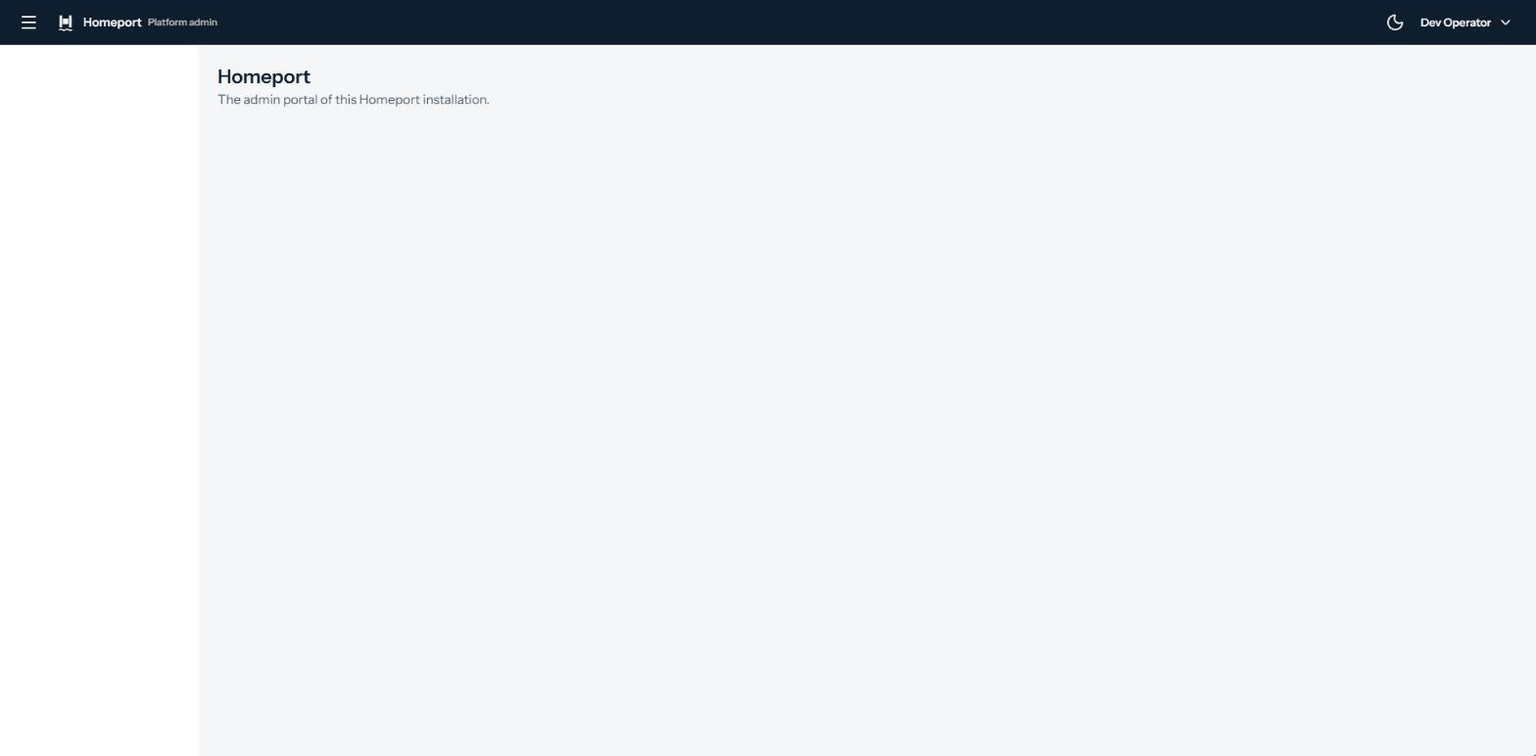
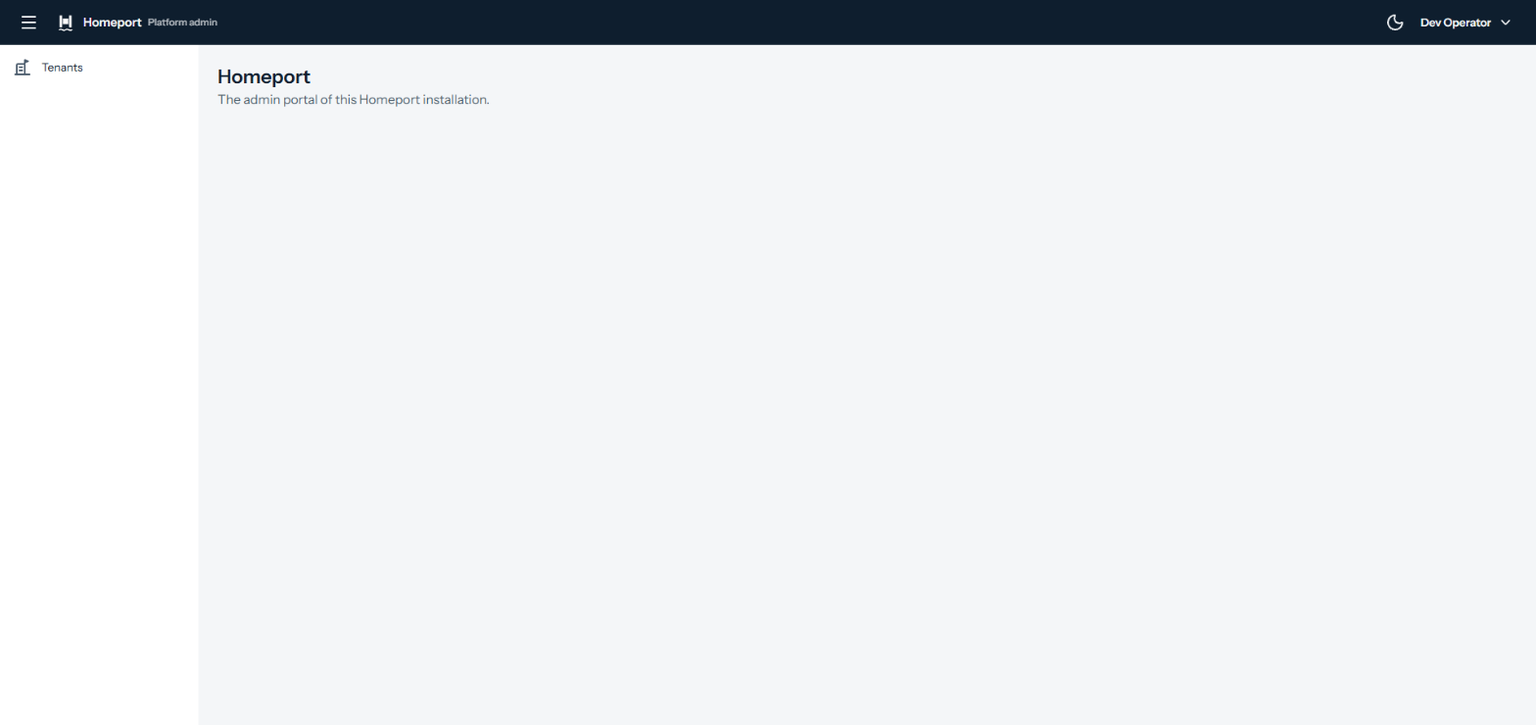
docs: document tenants in the admin API and portal (#194)
- Document the tenant endpoints and the audit table
- Add the Tenants section with screenshots
- Allow audit table privileges as vendor-specific SQL
- Update architecture, data model and problem pages
- Add the changelog entry

Changed region(s): [[0.0, 0.0, 1.0, 0.0622], [0.125, 0.0932, 0.3125, 0.1554], [0.0312, 0.0932, 0.0625, 0.1243]]

diff --git a/docs/architecture/architecture.md b/docs/architecture/architecture.md
@@ -23,20 +23,20 @@ binding rules — the dependency direction, who may reference what — live in t
 | `Homeport.Platform.Gateway.Domain` | The rules for a quantity a module reports: one pair of the route's own meter and a positive integer; a plan's rate limit and what a request's draw from its bucket tells the caller: allowed or when to retry, the quota, window, remaining requests and seconds until full; the consolidated API documents: per module only the routes the gateway serves, each from the document of the instance that wins it, under public paths, with prefixed colliding component names and a bearer scheme | `Homeport.Shared.Contracts` |
 | `Homeport.Platform.Gateway.Application` | Decides whether a tenant's request passes its rate limit, on the token buckets it declares, and lets it pass while they cannot be reached | `Homeport.Platform.Gateway.Domain` |
 | `Homeport.Platform.Gateway.Infrastructure` | Loads and checks the signing key, builds the JWKS and issues service tokens, which an HTTP client attaches to its calls to a platform service, and module tokens, which are also the caller tokens of a forwarded platform request, and the operator's caller tokens of scope `admin` for an admin request; reads the route table from the registry; looks clients up at the control plane and keeps each answer for a configurable time; publishes usage events through Wolverine to RabbitMQ, retries a failed send and counts one it drops or a reported quantity it rejects; reads the OpenAPI documents of module instances; keeps every tenant's token bucket in Valkey and draws from it with a script that runs inside Valkey, counts a request that passes while Valkey cannot be reached and warns about it at most once a minute | `Homeport.Platform.Gateway.Application`, `Homeport.Shared.Authentication`, `Homeport.Shared.Internal` |
-| `Homeport.Platform.Gateway.Api` | The one entry point: polls the registry for the routes and forwards `/modules/{id}/{path}` with YARP on them, and `/platform/v1/usage` to metering on a configured route with a caller token and without metering it, to clients with a valid token of the operator's identity provider that the control plane knows and that grants the route's scope, serves the admin API under `/platform/v1/admin/...` on a port of its own only, for operator tokens with the configured admin claim, forwards it with a caller token of scope `admin` and neither throttles nor meters it, replaces the client's token with a module token, strips `X-Homeport-*` headers, applies forwarded headers only from trusted proxies, propagates `traceparent`, rejects a request over its tenant's rate limit with `429` and `Retry-After` before it is forwarded or metered and sets the RateLimit headers on every module response, tags a module request's span with tenant, client, module and meter and counts it in `homeport.gateway.requests`, publishes a usage event for every request it forwards with the quantity the module reported in `X-Homeport-Usage`, which it removes from the response, or the route's, holds every error response to Problem Details and serves the JWKS at `/.well-known/jwks.json`; when `Gateway:Docs:Enabled`, rebuilds the consolidated API docs whenever the routes change, the platform's from the documents of the platform services, read with a service token every 30 seconds, and serves them with Scalar at `/platform/docs` | `Homeport.Platform.Gateway.Infrastructure`, `Homeport.Shared.Client`, `Homeport.Shared.ServiceDefaults` |
+| `Homeport.Platform.Gateway.Api` | The one entry point: polls the registry for the routes and forwards `/modules/{id}/{path}` with YARP on them, and `/platform/v1/usage` to metering on a configured route with a caller token and without metering it, to clients with a valid token of the operator's identity provider that the control plane knows and that grants the route's scope, serves the admin API under `/platform/v1/admin/...` on a port of its own only, for operator tokens with the configured admin claim, forwards it — so far the tenants, to the control plane — with a caller token of scope `admin` and neither throttles nor meters it, replaces the client's token with a module token, strips `X-Homeport-*` headers, applies forwarded headers only from trusted proxies, propagates `traceparent`, rejects a request over its tenant's rate limit with `429` and `Retry-After` before it is forwarded or metered and sets the RateLimit headers on every module response, tags a module request's span with tenant, client, module and meter and counts it in `homeport.gateway.requests`, publishes a usage event for every request it forwards with the quantity the module reported in `X-Homeport-Usage`, which it removes from the response, or the route's, holds every error response to Problem Details and serves the JWKS at `/.well-known/jwks.json`; when `Gateway:Docs:Enabled`, rebuilds the consolidated API docs whenever the routes change, the platform's from the documents of the platform services, read with a service token every 30 seconds, and serves them with Scalar at `/platform/docs` | `Homeport.Platform.Gateway.Infrastructure`, `Homeport.Shared.Client`, `Homeport.Shared.ServiceDefaults` |
 | `Homeport.Platform.Registry.Domain` | The rules of registration: the manifest against the module contract, the supported contract versions, SemVer precedence, merging the routes of the live instances and comparing registration keys | nothing |
 | `Homeport.Platform.Registry.Application` | Registering an instance, renewing it and building the routes, on a store of instances and a source of keys it declares | `Homeport.Platform.Registry.Domain` |
 | `Homeport.Platform.Registry.Infrastructure` | Keeps the instances in Valkey with a time to live and reads the registration keys from configuration | `Homeport.Platform.Registry.Application` |
 | `Homeport.Platform.Registry.Api` | Serves registration and heartbeat, authenticated by registration key, and the route table, authenticated by a gateway service token | `Homeport.Platform.Registry.Infrastructure`, `Homeport.Shared.Authentication`, `Homeport.Shared.Client`, `Homeport.Shared.Internal`, `Homeport.Shared.ServiceDefaults` |
-| `Homeport.Platform.ControlPlane.Domain` | The tenant, the plan and the client with the plan it is held to, and the longest name and client id each allows | `Homeport.Shared.Contracts` |
-| `Homeport.Platform.ControlPlane.Application` | Looking a client up with its plan, on a lookup it declares | `Homeport.Platform.ControlPlane.Domain` |
-| `Homeport.Platform.ControlPlane.Infrastructure` | Keeps tenants, plans and clients in the schema `control_plane` with EF Core, mapped by entity configurations, looks a client up with its plan, holds the migrations, and brings the seeded tenant, plan and client in line with the configuration | `Homeport.Platform.ControlPlane.Application` |
-| `Homeport.Platform.ControlPlane.Api` | Serves `GET /clients/{clientId}` authenticated by a gateway service token, and as `migrate` applies its migrations and seeds one tenant, plan and client | `Homeport.Platform.ControlPlane.Infrastructure`, `Homeport.Shared.Authentication`, `Homeport.Shared.Client`, `Homeport.Shared.Internal`, `Homeport.Shared.ServiceDefaults` |
+| `Homeport.Platform.ControlPlane.Domain` | The tenant with the rules of its name — required, at most 200 characters, unique among tenants compared case-sensitively — the plan, the client with the plan it is held to, the longest name and client id each allows, and the audit entry of an operator's change | `Homeport.Shared.Contracts` |
+| `Homeport.Platform.ControlPlane.Application` | Looking a client up with its plan, and listing, creating and renaming tenants on behalf of an operator, each change with its audit entry, on a lookup and a store it declares | `Homeport.Platform.ControlPlane.Domain` |
+| `Homeport.Platform.ControlPlane.Infrastructure` | Keeps tenants, plans, clients and audit entries in the schema `control_plane` with EF Core, mapped by entity configurations, looks a client up with its plan, stores a tenant's change and its audit entry in one transaction and catches a name taken meanwhile by the unique index, holds the migrations, takes `UPDATE` and `DELETE` on the audit table back from the app role, and brings the seeded tenant, plan and client in line with the configuration | `Homeport.Platform.ControlPlane.Application` |
+| `Homeport.Platform.ControlPlane.Api` | Serves `GET /clients/{clientId}` authenticated by a gateway service token, and `GET`, `POST` and `PUT` under `/v1/admin/tenants` for the operator's caller token of scope `admin` without a tenant, answering a broken name rule with a validation problem at `name`, and as `migrate` applies its migrations and seeds one tenant, plan and client | `Homeport.Platform.ControlPlane.Infrastructure`, `Homeport.Shared.Authentication`, `Homeport.Shared.Client`, `Homeport.Shared.Internal`, `Homeport.Shared.ServiceDefaults` |
 | `Homeport.Platform.Metering.Domain` | The usage event, its hourly and daily aggregates, the rule that buckets usage by the UTC hour and day, and the query of an export with its rules | `Homeport.Shared.Contracts` |
 | `Homeport.Platform.Metering.Application` | Recording an event once and adding it to its aggregates, and reading a tenant's aggregates for an export, on a store and a reader it declares | `Homeport.Platform.Metering.Domain` |
 | `Homeport.Platform.Metering.Infrastructure` | Keeps the events and aggregates in the schema `metering` with EF Core, filtered to one tenant by query filters and row-level security, records an event in one transaction that a duplicate leaves unchanged, reads the aggregates of one tenant, and holds the migrations | `Homeport.Platform.Metering.Application` |
 | `Homeport.Platform.Metering.Api` | Consumes `UsageRecorded` from RabbitMQ through Wolverine, acknowledging it only once recorded, counts consumed events in `homeport.metering.events`, tags the consumer's span with the event's tenant, client, module and meter, serves a tenant's usage at `GET /v1/usage` as JSON or CSV to caller tokens of the gateway that grant `usage.read`, its OpenAPI document to the gateway's tokens, and as `migrate` applies its migrations | `Homeport.Platform.Metering.Infrastructure`, `Homeport.Shared.Authentication`, `Homeport.Shared.Client`, `Homeport.Shared.Internal`, `Homeport.Shared.ServiceDefaults` |
-| `Homeport.Platform.Portal` | The admin portal, Blazor Server on MudBlazor with the design kit's theme, fonts and logos linked from `design/`: signs the operator in with OIDC, authorization code and PKCE, requires the configured claim on every page, refuses a sign-in over plain HTTP, applies forwarded headers only from trusted proxies, shows the shell with the operator's name and sign-out, and answers a browser with sign-in, access denied, not found and error pages that show the trace id | `Homeport.Shared.ServiceDefaults` |
+| `Homeport.Platform.Portal` | The admin portal, Blazor Server on MudBlazor with the design kit's theme, fonts and logos linked from `design/`: signs the operator in with OIDC, authorization code and PKCE, requires the configured claim on every page, refuses a sign-in over plain HTTP, applies forwarded headers only from trusted proxies, shows the shell with the operator's name and sign-out, lists, creates and renames tenants through the gateway's admin API with the operator's access token, which each circuit renews with the refresh token before it expires, shows the admin API's Problem Details with the errors at their form fields, and answers a browser with sign-in, access denied, not found and error pages that show the trace id | `Homeport.Shared.Client`, `Homeport.Shared.ServiceDefaults` |
 | `Homeport.Modules.Echo.Domain` | The rule how much a batch counts: one per item, and at least one item | `Homeport.Shared.Contracts` |
 | `Homeport.Modules.Echo.Application` | Returning a batch with the quantity it counts as | `Homeport.Modules.Echo.Domain` |
 | `Homeport.Modules.Echo.Infrastructure` | Empty: Echo reaches nothing outside its process | `Homeport.Modules.Echo.Application` |
@@ -46,9 +46,10 @@ binding rules — the dependency direction, who may reference what — live in t
 | `Homeport.Modules.Echo.Api.Tests.Integration` | Runs Echo in memory behind a stand-in gateway's JWKS and asserts its manifest, health, echo, batch, request and caller endpoints with and without a module token and scope, and its OpenAPI document, including the descriptions of its `Homeport.Shared.Client` types | `Homeport.Modules.Echo.Api` |
 | `Homeport.Modules.Echo.Domain.Tests.Unit` | Asserts how much a batch counts and that an empty one is rejected | `Homeport.Modules.Echo.Domain` |
 | `Homeport.Modules.Echo.Application.Tests.Unit` | Asserts that a batch comes back in its order with its quantity, and that an empty one fails | `Homeport.Modules.Echo.Application` |
-| `Homeport.Platform.ControlPlane.Infrastructure.Tests.Integration` | Asserts that the schema's ER diagram names every table and column of the model | `Homeport.Platform.ControlPlane.Infrastructure` |
-| `Homeport.Platform.ControlPlane.Api.Tests.Integration` | Runs `migrate` and the control plane against a throwaway PostgreSQL prepared by the init script and asserts the client lookup with its token and error responses, that `migrate` seeds exactly once and fails on an invalid seed, and that the app role has no DDL rights; needs Docker | `Homeport.Platform.ControlPlane.Api` |
-| `Homeport.Platform.Gateway.Api.Tests.Integration` | Runs the gateway in memory against a stand-in module, registry, identity provider, control plane and metering and asserts which tokens, clients and scopes it accepts, the module token it forwards, what it forwards on which routes, how it polls the registry, the error responses it answers with, the JWKS it serves, the span attributes and request counts of a module request, that its metrics carry only bounded labels, the usage events it publishes with the quantity a module reports or the route's, the reports it rejects and removes, the `429`, `Retry-After` and RateLimit headers it answers with, that it neither meters a rejected request nor throttles one while Valkey is unreachable, that its errors read as `ProblemResponse` without loss, the consolidated API docs it serves, keeps and switches off, the platform's from metering's document read with a service token, that it forwards the usage export to metering with a caller token, throttles it and does not meter it, that it serves the admin API on the admin port only, answers it on the public port like an unknown path, refuses a token without the admin claim and forwards the operator's caller token, and that it does not start without a signing key or an identity provider | `Homeport.Platform.Gateway.Api` |
+| `Homeport.Platform.ControlPlane.Infrastructure.Tests.Integration` | Asserts that the schema's ER diagram names every table and column of the model, and, against a throwaway PostgreSQL migrated as the owner role, that a tenant is stored together with its audit entry, that neither is stored when another tenant took the name meanwhile, and that two names differing only in case are both stored; needs Docker | `Homeport.Platform.ControlPlane.Infrastructure` |
+| `Homeport.Platform.ControlPlane.Api.Tests.Integration` | Runs `migrate` and the control plane against a throwaway PostgreSQL prepared by the init script and asserts the client lookup with its token and error responses, the tenants of the admin API with their status codes, problems and audit entries, that only the operator's caller token reaches them, that `migrate` seeds exactly once and fails on an invalid seed, that the app role has no DDL rights, and that it may add and read audit entries but neither change nor delete them; needs Docker | `Homeport.Platform.ControlPlane.Api` |
+| `Homeport.Platform.ControlPlane.Domain.Tests.Unit` | Asserts the rules of a tenant's name: required, at most 200 characters, unique among tenants but case-sensitive, without surrounding whitespace, on creating and on renaming | `Homeport.Platform.ControlPlane.Domain` |
+| `Homeport.Platform.Gateway.Api.Tests.Integration` | Runs the gateway in memory against a stand-in module, registry, identity provider, control plane and metering and asserts which tokens, clients and scopes it accepts, the module token it forwards, what it forwards on which routes, how it polls the registry, the error responses it answers with, the JWKS it serves, the span attributes and request counts of a module request, that its metrics carry only bounded labels, the usage events it publishes with the quantity a module reports or the route's, the reports it rejects and removes, the `429`, `Retry-After` and RateLimit headers it answers with, that it neither meters a rejected request nor throttles one while Valkey is unreachable, that its errors read as `ProblemResponse` without loss, the consolidated API docs it serves, keeps and switches off, the platform's from metering's document read with a service token, that it forwards the usage export to metering with a caller token, throttles it and does not meter it, that it serves the admin API on the admin port only, answers it on the public port like an unknown path, refuses a token without the admin claim, forwards the operator's caller token and the tenant endpoints to the control plane, and that it does not start without a signing key or an identity provider | `Homeport.Platform.Gateway.Api` |
 | `Homeport.Platform.Gateway.Application.Tests.Unit` | Asserts that a request is decided on the bucket it drew from, and passes undecided while the buckets are unavailable | `Homeport.Platform.Gateway.Application` |
 | `Homeport.Platform.Gateway.Domain.Tests.Unit` | Asserts which reported quantities are accepted and why one is rejected, the limits a plan's rate limit takes and what a draw from its bucket tells the caller, and what a consolidated API document keeps, rewrites and leaves out | `Homeport.Platform.Gateway.Domain` |
 | `Homeport.Platform.Gateway.Infrastructure.Tests.Unit` | Asserts the checks on the signing and module token configuration, the service tokens and their renewal, the module tokens and the operator's caller tokens, the cached client lookup at the control plane, the retry delays of usage events, and that an outage of Valkey is warned about at most once per interval | `Homeport.Platform.Gateway.Infrastructure` |
@@ -58,6 +59,7 @@ binding rules — the dependency direction, who may reference what — live in t
 | `Homeport.Platform.Metering.Infrastructure.Tests.Integration` | Asserts recording and duplicates in a throwaway PostgreSQL prepared by the init script, which buckets an export reads, the cross-tenant leakage tests through EF Core and raw SQL as the app role and of the export, and that the schema's ER diagram names every table and column of the model; needs Docker | `Homeport.Platform.Metering.Infrastructure` |
 | `Homeport.Platform.Metering.Api.Tests.Integration` | Runs `migrate` and metering against a throwaway PostgreSQL and RabbitMQ and asserts that a published event is aggregated, that one delivered twice counts once, what `homeport.metering.events` counts, the attributes of the consumer's span, that its metrics carry only bounded labels, and the usage export as JSON and CSV with the tokens it accepts and refuses and the cross-tenant leakage test of two tenants, and its OpenAPI document of the export, served to a token only; needs Docker | `Homeport.Platform.Metering.Api` |
 | `Homeport.Platform.Portal.Tests.Integration` | Runs the portal in memory against an identity provider it never calls and asserts that it serves the design kit's files, sends an anonymous request to the sign-in page and its button to the provider with a code challenge, refuses a sign-in over plain HTTP without a trusted proxy, returns only to its own pages, sends a user without the claim to the access denied page, shows the trace id there and on the not found page, sets its cookies `Secure`, `HttpOnly` and `Lax`, and shows the operator's name in the shell | `Homeport.Platform.Portal` |
+| `Homeport.Platform.Portal.Tests.Unit` | Renders the tenants page with bUnit against a stand-in admin API and asserts the list, the empty state, a validation problem at the name field and the title, detail and trace id of any other problem; asserts that the client of the admin API sends the operator's token below `/platform`, reads Problem Details, describes an unreachable API and asks for a new sign-in on `401` or without a token, and that the operator's tokens are read from the cookie once per circuit and renewed with the refresh token shortly before they expire | `Homeport.Platform.Portal` |
 | `Homeport.Platform.Registry.Domain.Tests.Unit` | Asserts the manifest rules, SemVer precedence, how the routes of several instances merge and the key comparison | `Homeport.Platform.Registry.Domain` |
 | `Homeport.Platform.Registry.Application.Tests.Unit` | Asserts registering, renewing and building the routes on an in-memory store | `Homeport.Platform.Registry.Application` |
 | `Homeport.Platform.Registry.Infrastructure.Tests.Unit` | Asserts the checks on the configured registration keys | `Homeport.Platform.Registry.Infrastructure` |
@@ -134,6 +136,7 @@ src/
     Homeport.Modules.Echo.Application.Tests.Unit/
     Homeport.Modules.Echo.Domain.Tests.Unit/
     Homeport.Platform.ControlPlane.Api.Tests.Integration/
+    Homeport.Platform.ControlPlane.Domain.Tests.Unit/
     Homeport.Platform.ControlPlane.Infrastructure.Tests.Integration/
     Homeport.Platform.Gateway.Api.Tests.Integration/
     Homeport.Platform.Gateway.Application.Tests.Unit/
@@ -145,6 +148,7 @@ src/
     Homeport.Platform.Metering.Domain.Tests.Unit/
     Homeport.Platform.Metering.Infrastructure.Tests.Integration/
     Homeport.Platform.Portal.Tests.Integration/
+    Homeport.Platform.Portal.Tests.Unit/
     Homeport.Platform.Registry.Api.Tests.Integration/
     Homeport.Platform.Registry.Application.Tests.Unit/
     Homeport.Platform.Registry.Domain.Tests.Unit/

diff --git a/docs/operators/admin-portal.md b/docs/operators/admin-portal.md
@@ -6,11 +6,12 @@ in at your own identity provider; the portal never sees your password. It is
 a Blazor Server application, so your tokens stay on its server and never
 reach the browser.
 
-So far the portal is its shell: you sign in, see who you are signed in as,
-and sign out. Its pages for tenants, plans, clients, modules, usage and the
-audit log follow, each with its own entry in the navigation.
+You sign in, see who you are signed in as, sign out, and manage the
+tenants. The pages for plans, clients, modules, usage and the audit log
+follow, each with its own entry in the navigation. Every page calls the
+[admin API](admin-api.md) at the gateway's admin port, as you.
 
-![The portal's shell after signing in: the app bar with the operator's name, an empty navigation and the start page](admin-portal-shell.png)
+![The portal's shell after signing in: the app bar with the operator's name, the navigation and the start page](admin-portal-shell.png)
 
 ## Signing in
 
@@ -32,6 +33,28 @@ audit log follow, each with its own entry in the navigation.
 *Sign out*, in the menu under your name, ends the session at the portal and
 at the provider, and returns to the sign-in page.
 
+## Tenants
+
+*Tenants* lists every tenant with its id and number of clients; the search
+field filters by name or id. Selecting a tenant shows its facts next to the
+list.
+
+![The tenant list with a search field, two tenants and the facts of the selected one](admin-portal-tenants.png)
+
+*Add tenant* asks for a name; *Rename* changes the selected tenant's name.
+A name must be unique among tenants, compared case-sensitively. When the
+admin API refuses one, the dialog puts the reason at the name field:
+
+![The rename dialog with the name of another tenant and the message that it already exists](admin-portal-tenants-rename.png)
+
+Every other problem of the admin API — the gateway or the control plane not
+answering, for example — appears as an alert with its title, its detail and
+the trace id, the same on every page. While the list loads it shows
+placeholder rows; when it cannot be loaded, the problem and *Try again*.
+
+Each change is recorded in the audit log with your subject and display name
+(see [the admin API](admin-api.md#audit)).
+
 ## Configuration
 
 | Setting | Environment variable | Default | Meaning |
@@ -43,12 +66,18 @@ at the provider, and returns to the sign-in page.
 | `SignIn:ClaimValue` | `SignIn__ClaimValue` | `homeport-admin` | The value that claim must carry |
 | `SignIn:NameClaim` | `SignIn__NameClaim` | `name` | The claim your display name is taken from, shown in the app bar |
 | `SignIn:RequireHttpsMetadata` | `SignIn__RequireHttpsMetadata` | `true` | Whether the metadata must be fetched over HTTPS. Turn it off only for a development provider without TLS |
+| `AdminApi:Url` | `AdminApi__Url` | — | The gateway's admin port, such as `http://gateway:8000` |
 | `TrustedProxies:Proxies:0`, … | `TrustedProxies__Proxies__0`, … | — | The reverse proxies whose forwarded headers the portal applies; see [below](#tls-and-the-reverse-proxy) |
 | `TrustedProxies:Networks:0`, … | `TrustedProxies__Networks__0`, … | — | The same, as networks in CIDR notation |
 
-The portal does not start without an authority, a client id and a secret.
-Its start is logged at Information with the authority, the client id, the
-claim, the name claim and the trusted proxies, never with the secret.
+The portal does not start without an authority, a client id, a secret and
+the address of the admin API. Its start is logged at Information with the
+authority, the client id, the claim, the name claim, the address of the
+admin API and the trusted proxies, never with the secret.
+
+The portal asks your provider for a refresh token with the scopes it
+requests by default; a provider that issues none ends a page's work when
+the access token expires, and you sign in again.
 
 Use the same claim as the gateway's admin API, `AdminApi:ClaimType` and
 `AdminApi:ClaimValue` (see [the admin API](admin-api.md)): the portal lets
@@ -90,6 +119,14 @@ can sign in.
 
 ## Sessions
 
+Your session keeps the tokens of the sign-in in its cookie. A page reads
+them once, when its connection to the portal opens, and from then on renews
+the access token with the refresh token shortly before it expires, so a
+page left open keeps working while your session at the identity provider
+lasts. Once the provider refuses the refresh — your session there has
+ended — or the gateway refuses the token, the portal sends you to sign in
+again and returns you to the page.
+
 The session cookie is protected with ASP.NET Core's data protection keys.
 The image keeps them inside the container, so a restart of the portal ends
 every session and the operators sign in again. Run one replica: a second one
@@ -127,5 +164,8 @@ services:
 ## What is logged
 
 At Warning: a signed-in user without the claim that grants access, with the
-claim they lack, and a sign-in refused over plain HTTP. Neither names the
-user.
+claim they lack, a sign-in refused over plain HTTP, a refresh the identity
+provider refused, with its status, an admin API the portal cannot reach,
+and an error of the admin API without Problem Details. None names the user
+or carries a token. At Debug: the problem type of each error the admin API
+answered with.

diff --git a/docs/operators/admin-api.md b/docs/operators/admin-api.md
@@ -16,9 +16,9 @@ on, never by its `Host` header:
   `/platform/v1/admin/` answers `404`, exactly like a path nothing is
   mounted at, whatever token comes with it.
 
-The admin endpoints themselves are served by the platform services and
-arrive with the admin portal. Until then, every admin path answers `404` on
-the admin port, too.
+The admin endpoints themselves are served by the platform services; the
+ones there are so far are listed under [Endpoints](#endpoints). Any other
+admin path answers `404` on the admin port, too.
 
 ## Who gets in
 
@@ -45,6 +45,52 @@ code and PKCE. For each request the gateway
 
 An admin request is neither throttled nor metered: the operator acts for
 no tenant.
+
+The platform service checks the caller token once more: it serves its admin
+endpoints only on the scope `admin`, with a subject and without a tenant.
+Any other token of the gateway, such as the caller token of a client, is
+answered with `403` and the problem type
+[`insufficient-scope`](../reference/problems/insufficient-scope.md).
+
+## Endpoints
+
+The request and response types are in `Homeport.Shared.Client`, namespace
+`Homeport.Shared.Client.Platform.ControlPlane.V1`.
+
+| Method and path | Served by | Body | Answer |
+|---|---|---|---|
+| `GET /platform/v1/admin/tenants` | control plane | — | `200` with every tenant, ordered by name: id, name and number of clients |
+| `POST /platform/v1/admin/tenants` | control plane | `{ "name": "Sales" }` | `201` with the new tenant and its address in `Location` |
+| `GET /platform/v1/admin/tenants/{tenantId}` | control plane | — | `200` with the tenant, `404` for an unknown id |
+| `PUT /platform/v1/admin/tenants/{tenantId}` | control plane | `{ "name": "Sales EMEA" }` | `200` with the renamed tenant, `404` for an unknown id |
+
+A tenant's name is required, at most 200 characters, and unique among
+tenants. Surrounding whitespace is dropped. Names are compared
+case-sensitively: `Sales` and `sales` are two tenants. A name that breaks a
+rule is answered with `400` and the problem type
+[`validation`](../reference/problems/validation.md), the message under
+`errors.name`. A tenant is neither deleted nor suspended through the admin
+API.
+
+## Audit
+
+Every change through the admin API writes an entry into the audit table of
+the service that owns the data, in the same transaction as the change: so
+far `control_plane.audit_entries`. An entry records when, the operator's
+subject and display name as the caller token named them, what was done
+(`tenant.created`, `tenant.renamed`), what it was done to
+(`tenants/<id>`) and a sentence for the reader. Renaming a tenant to the
+name it already has changes nothing and writes no entry.
+
+The service's app role may only add entries and read them; it can neither
+change nor delete one. Homeport never deletes an entry. The entries hold
+personal data — the operator's subject and name — so delete them after a
+period of your own choosing, as the schema's owner role:
+
+```sql
+-- as control_plane_owner
+DELETE FROM control_plane.audit_entries WHERE "OccurredAt" < now() - interval '1 year';
+```
 
 ## Configuration
 
@@ -95,7 +141,11 @@ services:
 
 ## What is logged
 
-At Warning, without the token: a rejected operator token with the reason
+At Warning, at the platform service: a caller token refused for an admin
+endpoint, with the reason, never the token. At Information: a tenant created
+or renamed, with its id.
+
+At Warning, at the gateway, without the token: a rejected operator token with the reason
 (the type of the validation failure), and a token without the admin claim,
 with the claim it lacks, or without a subject. At Debug: a request answered
 `404` because it came to the wrong port, with its path and port, and a

diff --git a/docs/architecture/data-model.md b/docs/architecture/data-model.md
@@ -12,7 +12,7 @@ stores data owns one schema in it and nothing outside it:
 
 | Service | Schema | Tables |
 |---|---|---|
-| Control plane | `control_plane` | `Tenants`, `Plans`, `Clients`, and EF Core's `__EFMigrationsHistory` |
+| Control plane | `control_plane` | `Tenants`, `Plans`, `Clients`, `audit_entries`, and EF Core's `__EFMigrationsHistory` |
 | Metering | `metering` | `UsageEvents`, `UsageHourly`, `UsageDaily`, and EF Core's `__EFMigrationsHistory` |
 
 Each schema comes with two roles, which
@@ -32,10 +32,12 @@ only after it completed. A bug or a compromise in a running service
 therefore cannot change the schema, and an operator sees a failed migration
 as a failed step, not as a service that does not come up.
 
-The setup of schemas and roles is SQL only PostgreSQL understands. It is the
-one place besides row-level security where Homeport's data access is not
-provider-neutral, and it is kept in the init script rather than in the
-migrations, because creating a role needs rights no service holds.
+The setup of schemas and roles is SQL only PostgreSQL understands. Besides
+it, only row-level security and the privileges of an audit table are not
+provider-neutral. The setup is kept in the init script rather than in the
+migrations, because creating a role needs rights no service holds. Taking
+`UPDATE` and `DELETE` on an audit table back from the app role needs only
+the owner's rights, so the migration that creates the table does it.
 
 ## Tenant-owned and platform tables
 
@@ -53,7 +55,10 @@ A table is one of two kinds:
   tenant reads them, and the services that read them — the gateway, through
   the control plane — read them for every tenant alike. They have no query
   filter and no row-level security, even where a row names a tenant, as
-  `Clients` does.
+  `Clients` does. The audit tables, such as `control_plane.audit_entries`,
+  are platform tables too: they record what the operator did, and the
+  service's app role may only add to them and read them
+  ([ADR-0020](adr/0020-the-operator-as-a-caller.md)).
 
 The distinction is made per table, by asking whose data its rows are. A
 table whose rows a tenant created is tenant-owned, even if the operator also

diff --git a/CHANGELOG.md b/CHANGELOG.md
@@ -9,6 +9,18 @@ and this project adheres to [Semantic Versioning](https://semver.org/spec/v2.0.0
 
 ### Added
 
+- The operator manages tenants in the admin portal: a list with search, and
+  dialogs to create and rename a tenant. A tenant's name is unique,
+  compared case-sensitively. The pages show every problem of the admin API
+  the same way, with the reason at the form field it belongs to and the
+  trace id. See [the admin portal](docs/operators/admin-portal.md#tenants).
+
+- The admin API serves `GET`, `POST` and `PUT` under
+  `/platform/v1/admin/tenants`. Every change writes an entry with the
+  operator's subject and display name into `control_plane.audit_entries`,
+  which the control plane can add to but never change or delete. See
+  [the admin API](docs/operators/admin-api.md#endpoints).
+
 - The admin portal, the new image `homeport-portal`: the operator signs in
   at their own identity provider with authorization code and PKCE, and needs
   a configurable claim, such as `roles` with `homeport-admin`, to get in.

diff --git a/AGENTS.md b/AGENTS.md
@@ -98,10 +98,12 @@ reader it is written for:
   `Directory.Packages.props`.
 - Use `TimeProvider`, never `DateTime.Now` or `DateTime.UtcNow`.
 - Keep data access provider-neutral. Vendor-specific SQL is allowed only for
-  the row-level security setup and for the schema and role setup in
+  the row-level security setup, for revoking the app role's `UPDATE` and
+  `DELETE` on an audit table, and for the schema and role setup in
   `deploy/postgres/init/`.
 - Code outside C# only where an atomic operation must run inside a data
-  store: row-level security SQL in PostgreSQL, counter scripts in Valkey.
+  store: row-level security and audit table privileges in PostgreSQL,
+  counter scripts in Valkey.
   Each one is a file in an Infrastructure project and has an integration
   test. The init scripts in `deploy/` are the one exception: they set up a
   store before any service runs.

diff --git a/docs/reference/problems/insufficient-scope.md b/docs/reference/problems/insufficient-scope.md
@@ -10,7 +10,10 @@ not reach the module or the platform service.
 
 Metering answers with the same type when a token the gateway forwarded
 lacks `usage.read` or names no tenant; through the gateway, a caller sees
-the gateway's answer first.
+the gateway's answer first. The control plane answers with it on an
+[admin endpoint](../../operators/admin-api.md) for a token that is not the
+operator's caller token: one without the scope `admin`, or one that names a
+tenant.
 
 ```json
 {

diff --git a/docs/reference/problems/validation.md b/docs/reference/problems/validation.md
@@ -25,3 +25,6 @@ extension `errors` lists every failure, keyed by field path:
 - Each field maps to one or more English messages, meant for a developer.
 - Correct the request before sending it again; the same request fails the
   same way.
+
+A rule of the domain answers the same way, such as a tenant's name that
+another tenant has: `"errors": { "name": ["A tenant named 'Sales' already exists."] }`.
